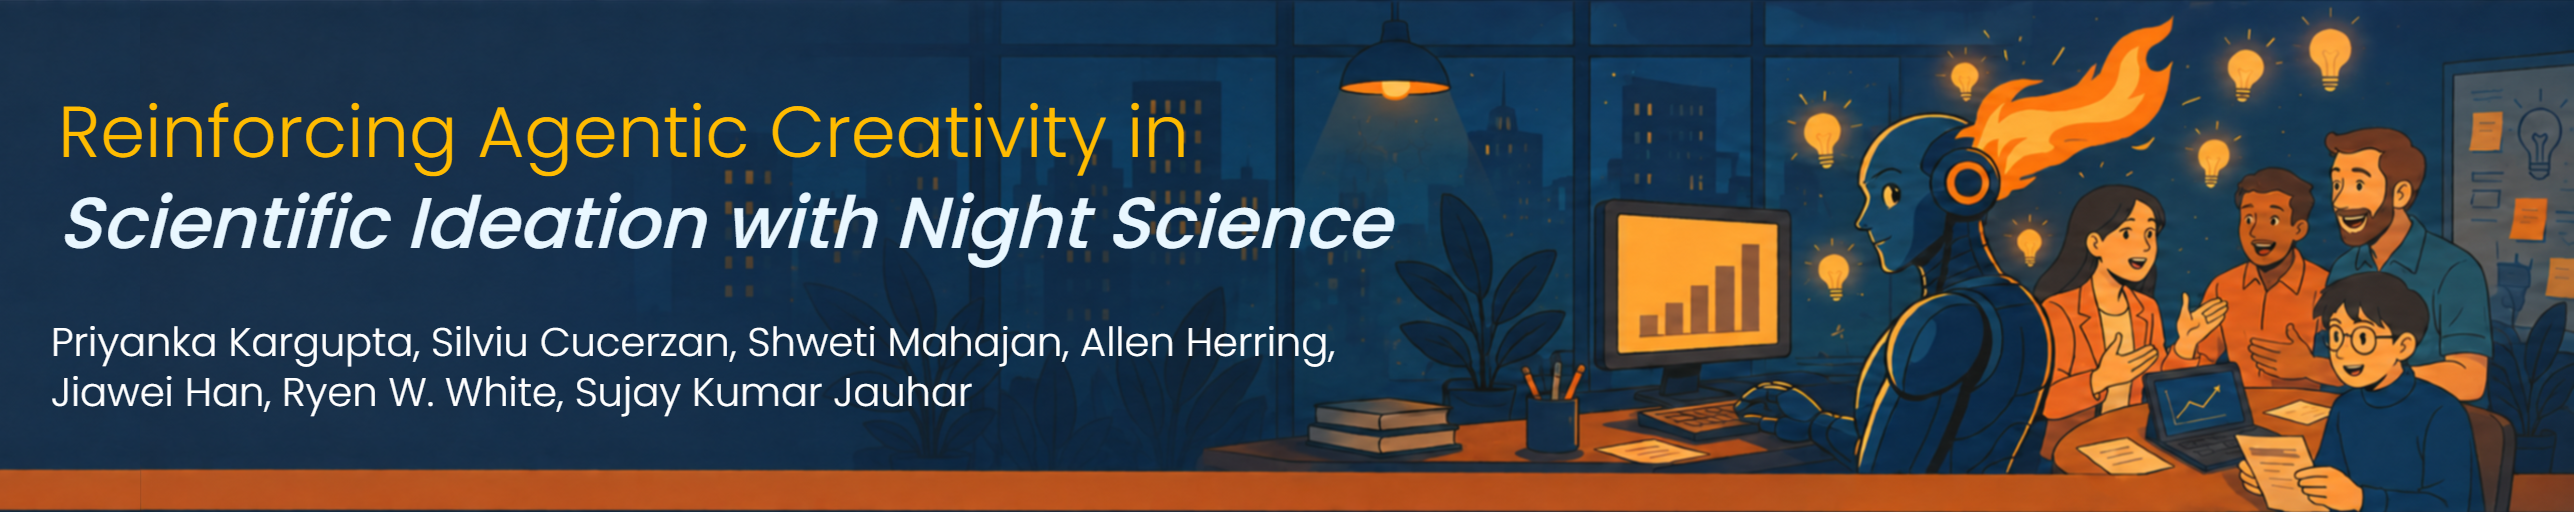
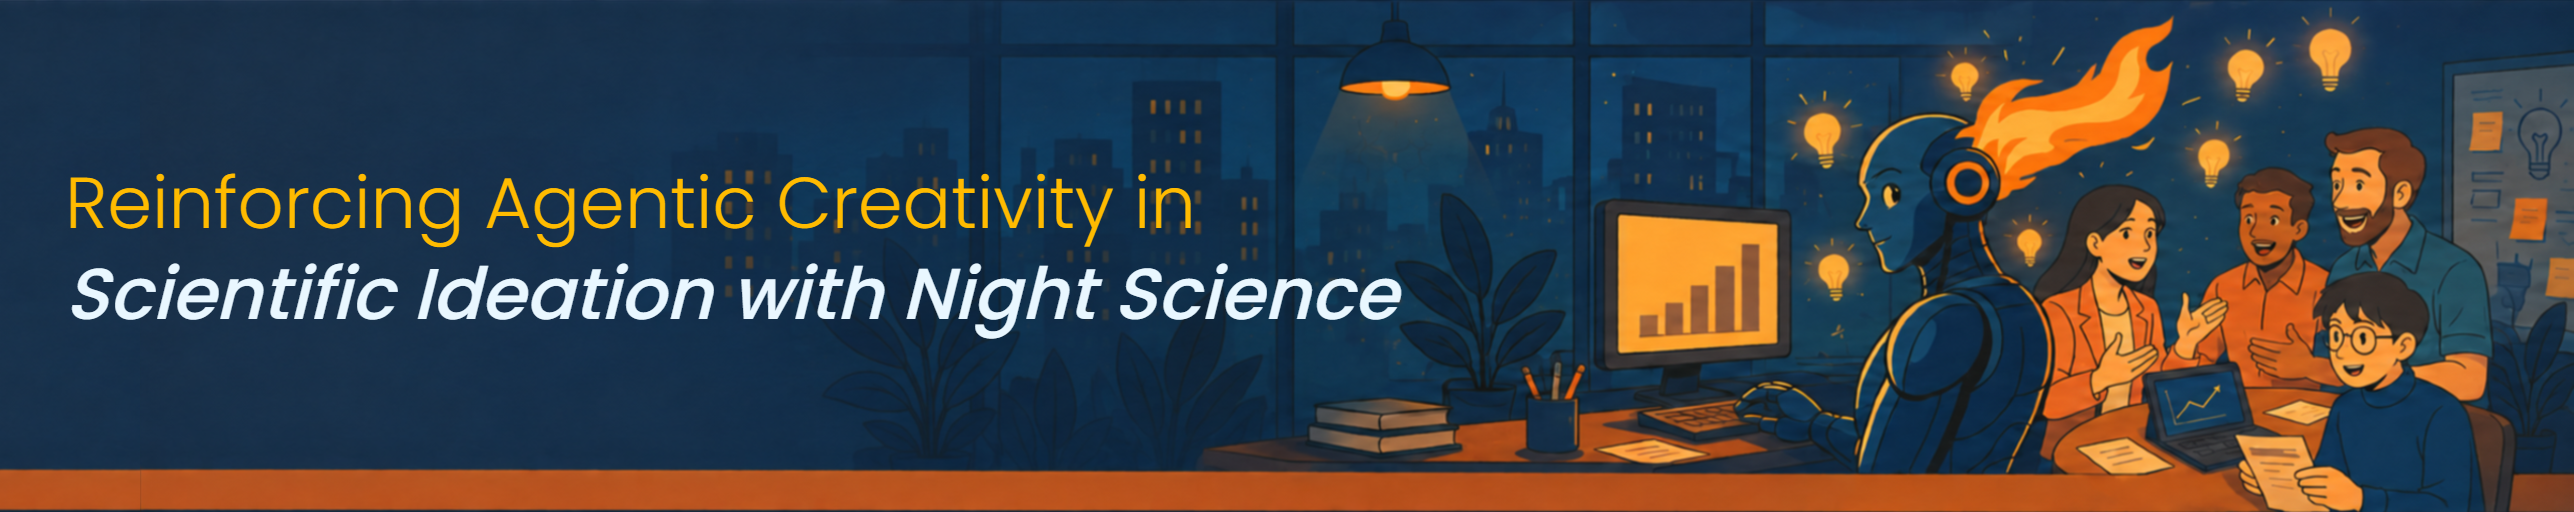
update anonymity

Changed region(s): [[0.0, 0.2188, 0.5594, 0.8125]]

diff --git a/README.md b/README.md
@@ -2,8 +2,6 @@
 
 <p align="center"><img src="figures/README_header.png" alt="Reinforcing Agentic Creativity in Scientific Ideation with Night Science"/></p>
 
-[Priyanka Kargupta](https://pkargupta.github.io/), [Silviu Cucerzan](https://scholar.google.com/citations?user=wb2Ll78AAAAJ&hl=en), [Shweti Mahajan](https://www.microsoft.com/en-us/research/people/shmahaj/), [Allen Herring](https://www.linkedin.com/in/allen-herring-9941454), [Jiawei Han](https://hanj.cs.illinois.edu/), [Ryen W. White](http://www.ryenwhite.com/), [Sujay Kumar Jauhar](https://www.microsoft.com/en-us/research/people/sjauhar/)
-
 </div>
 
 # Reinforcing Agentic Creativity in Scientific Ideation with Night Science
@@ -195,7 +193,7 @@ There is no ground-truth proposal: the reward is computed by a judge, not by com
 ## The arXiv Retrieval Service
 
 The `search` action queries a dense arXiv index served by the companion repository,
-[pkargupta/synthetic_proposals](https://github.com/pkargupta/synthetic_proposals). `setup.sh`
+[/synthetic_proposals](https://anonymous.4open.science/status/synthetic_proposals-ECF8). `setup.sh`
 clones it to `companion/` at the pinned commit and installs the verl-side search client, so
 there is nothing extra to wire up.
 
